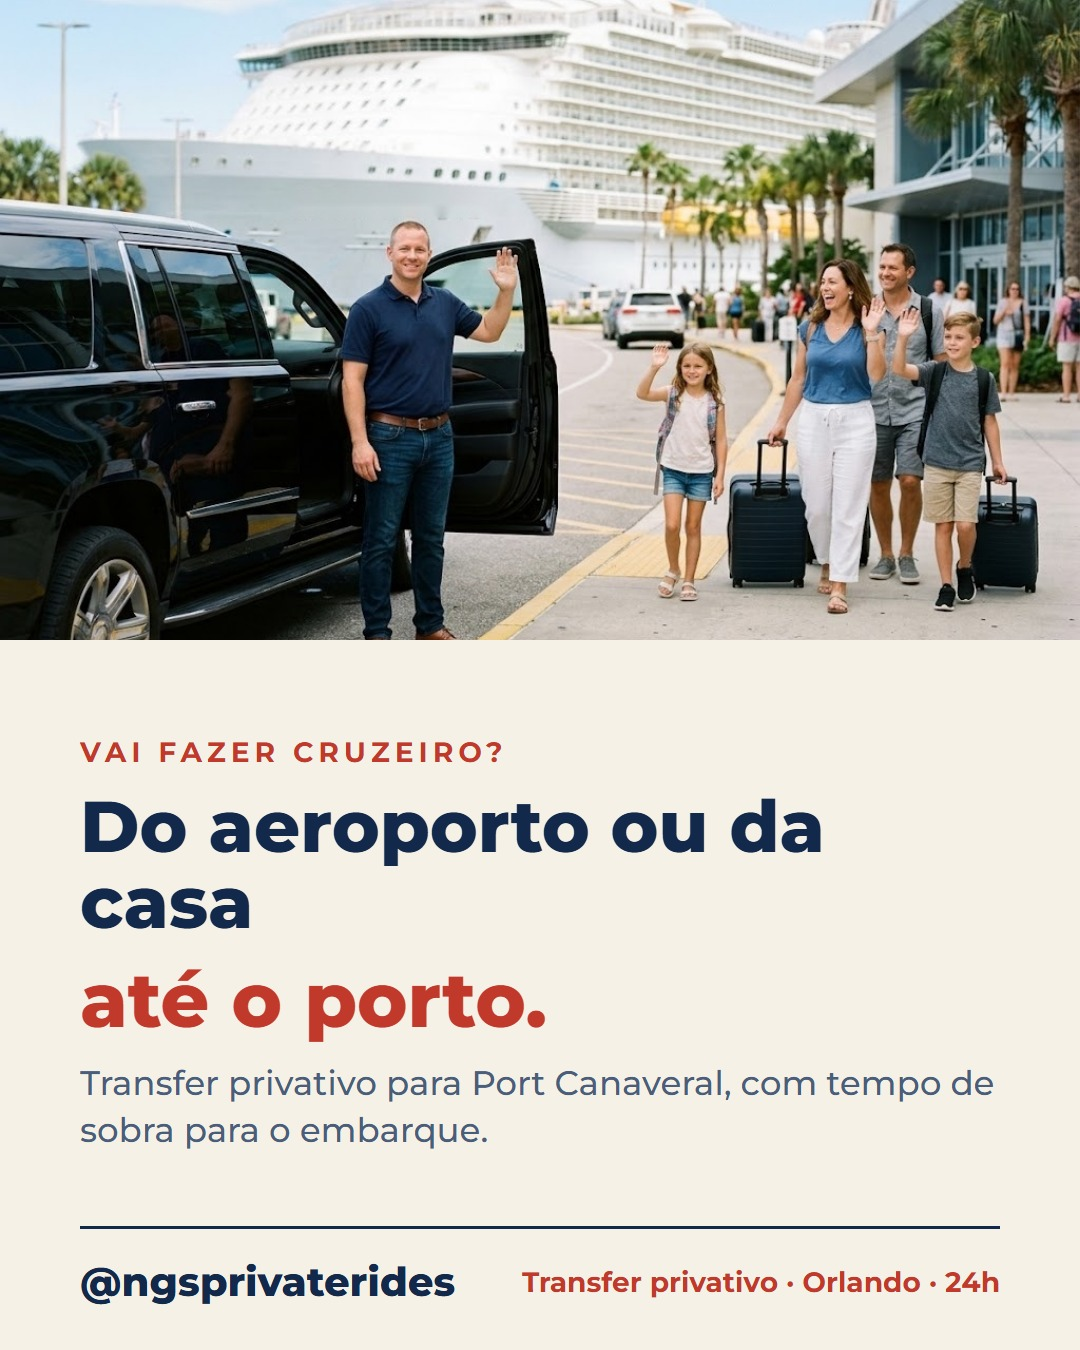
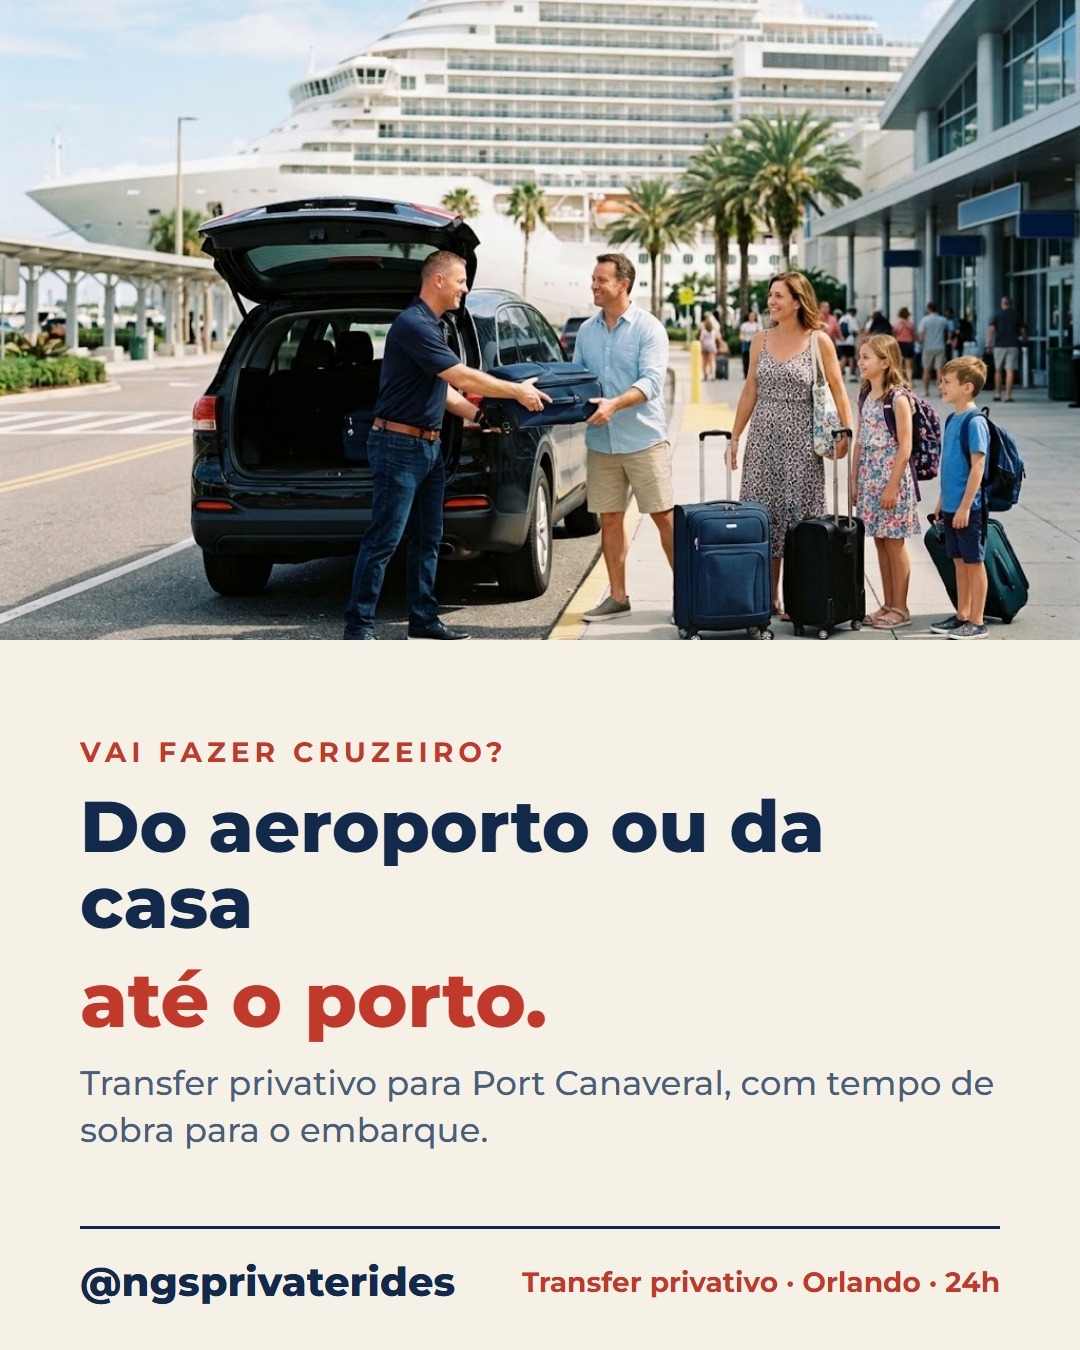
cruise: motorista entrega a mala ao pai (sem aceno para a câmera)

diff --git a/tools/gemini-scenes.js b/tools/gemini-scenes.js
@@ -15,7 +15,7 @@ const scenes = {
   'curb-welcome': 'Orlando airport arrivals curb OUTSIDE the terminal, bright day: a friendly driver dressed smart casual (navy polo shirt tucked into dark blue jeans, brown belt, clean sneakers, no suit, no tie, no jacket) standing next to the open trunk of a clean black SUV parked at the curb, smiling and lifting a suitcase into the trunk while a happy Latin family (parents and two kids) with a luggage cart walks up to him from the sidewalk. Terminal glass facade and palm trees blurred behind, cars at the curb. No signs held by anyone.',
   'airport': 'Orlando airport arrivals curb OUTSIDE the terminal, bright sunny day: a friendly driver opening the rear door of a clean black SUV parked at the curb for a smiling family of four walking out with rolling suitcases. Terminal glass facade and palm trees behind. The driver is dressed smart casual: navy polo shirt tucked into dark blue jeans, brown belt, clean shoes. NO suit, NO tie, NO jacket. Nobody holds a sign.',
   'night-pickup': 'Night at an airport arrivals curb OUTSIDE the terminal, wet pavement reflecting warm lights: a friendly driver loading a big family’s many suitcases into the open trunk of a clean black SUV while the parents and kids watch, tired but happy. The driver is dressed smart casual: navy polo shirt tucked into dark blue jeans, brown belt, clean shoes. NO suit, NO tie, NO jacket. Nobody holds a sign.',
-  'cruise': 'Sunny day at Port Canaveral cruise terminal: a huge white cruise ship (no readable name) behind; a friendly driver standing by a clean black SUV at the drop-off curb while a happy family with suitcases walks toward the terminal, waving goodbye. Palm trees. The driver is dressed smart casual: navy polo shirt tucked into dark blue jeans, brown belt, clean shoes. NO suit, NO tie, NO jacket. Nobody holds a sign.',
+  'cruise': 'Sunny day at Port Canaveral cruise terminal drop-off curb: a huge white cruise ship (no name or text on the hull) behind. A friendly driver standing at the open trunk of a clean black SUV, handing the last suitcase to the smiling father; the mother and two kids stand next to them with their luggage, facing the driver, ready to walk to the terminal. Everyone faces each other naturally, nobody waves at the camera. Palm trees. The driver is dressed smart casual: navy polo shirt tucked into dark blue jeans, brown belt, clean shoes. NO suit, NO tie, NO jacket. Nobody holds a sign.',
   'park-dropoff': 'A family with two kids wearing sun hats and small backpacks stepping out of a clean black SUV at a theme park guest drop-off area in Florida, excited, the driver holding the door. Colorful entrance gates blurred in the background, no recognizable characters, castles or logos. Sunny morning.',
   'flight-tracking': 'At an airport arrivals curb OUTSIDE the terminal, daytime: a friendly driver leaning on a clean black SUV parked at the curb, checking a flight status on his smartphone (screen not visible), relaxed and attentive, travelers with suitcases walking out of the terminal doors behind him. Palm trees. The driver is dressed smart casual: navy polo shirt tucked into dark blue jeans, brown belt, clean shoes. NO suit, NO tie, NO jacket. Nobody holds a sign.',
   'arrivals-welcome': 'Airport arrivals exit in Orlando: a smiling professional driver in a dark suit holding a blank white welcome sign with no writing, greeting a happy Latin family (parents and two kids) pushing a luggage cart toward him. Warm, welcoming mood, natural daylight, palm trees through the glass.',
